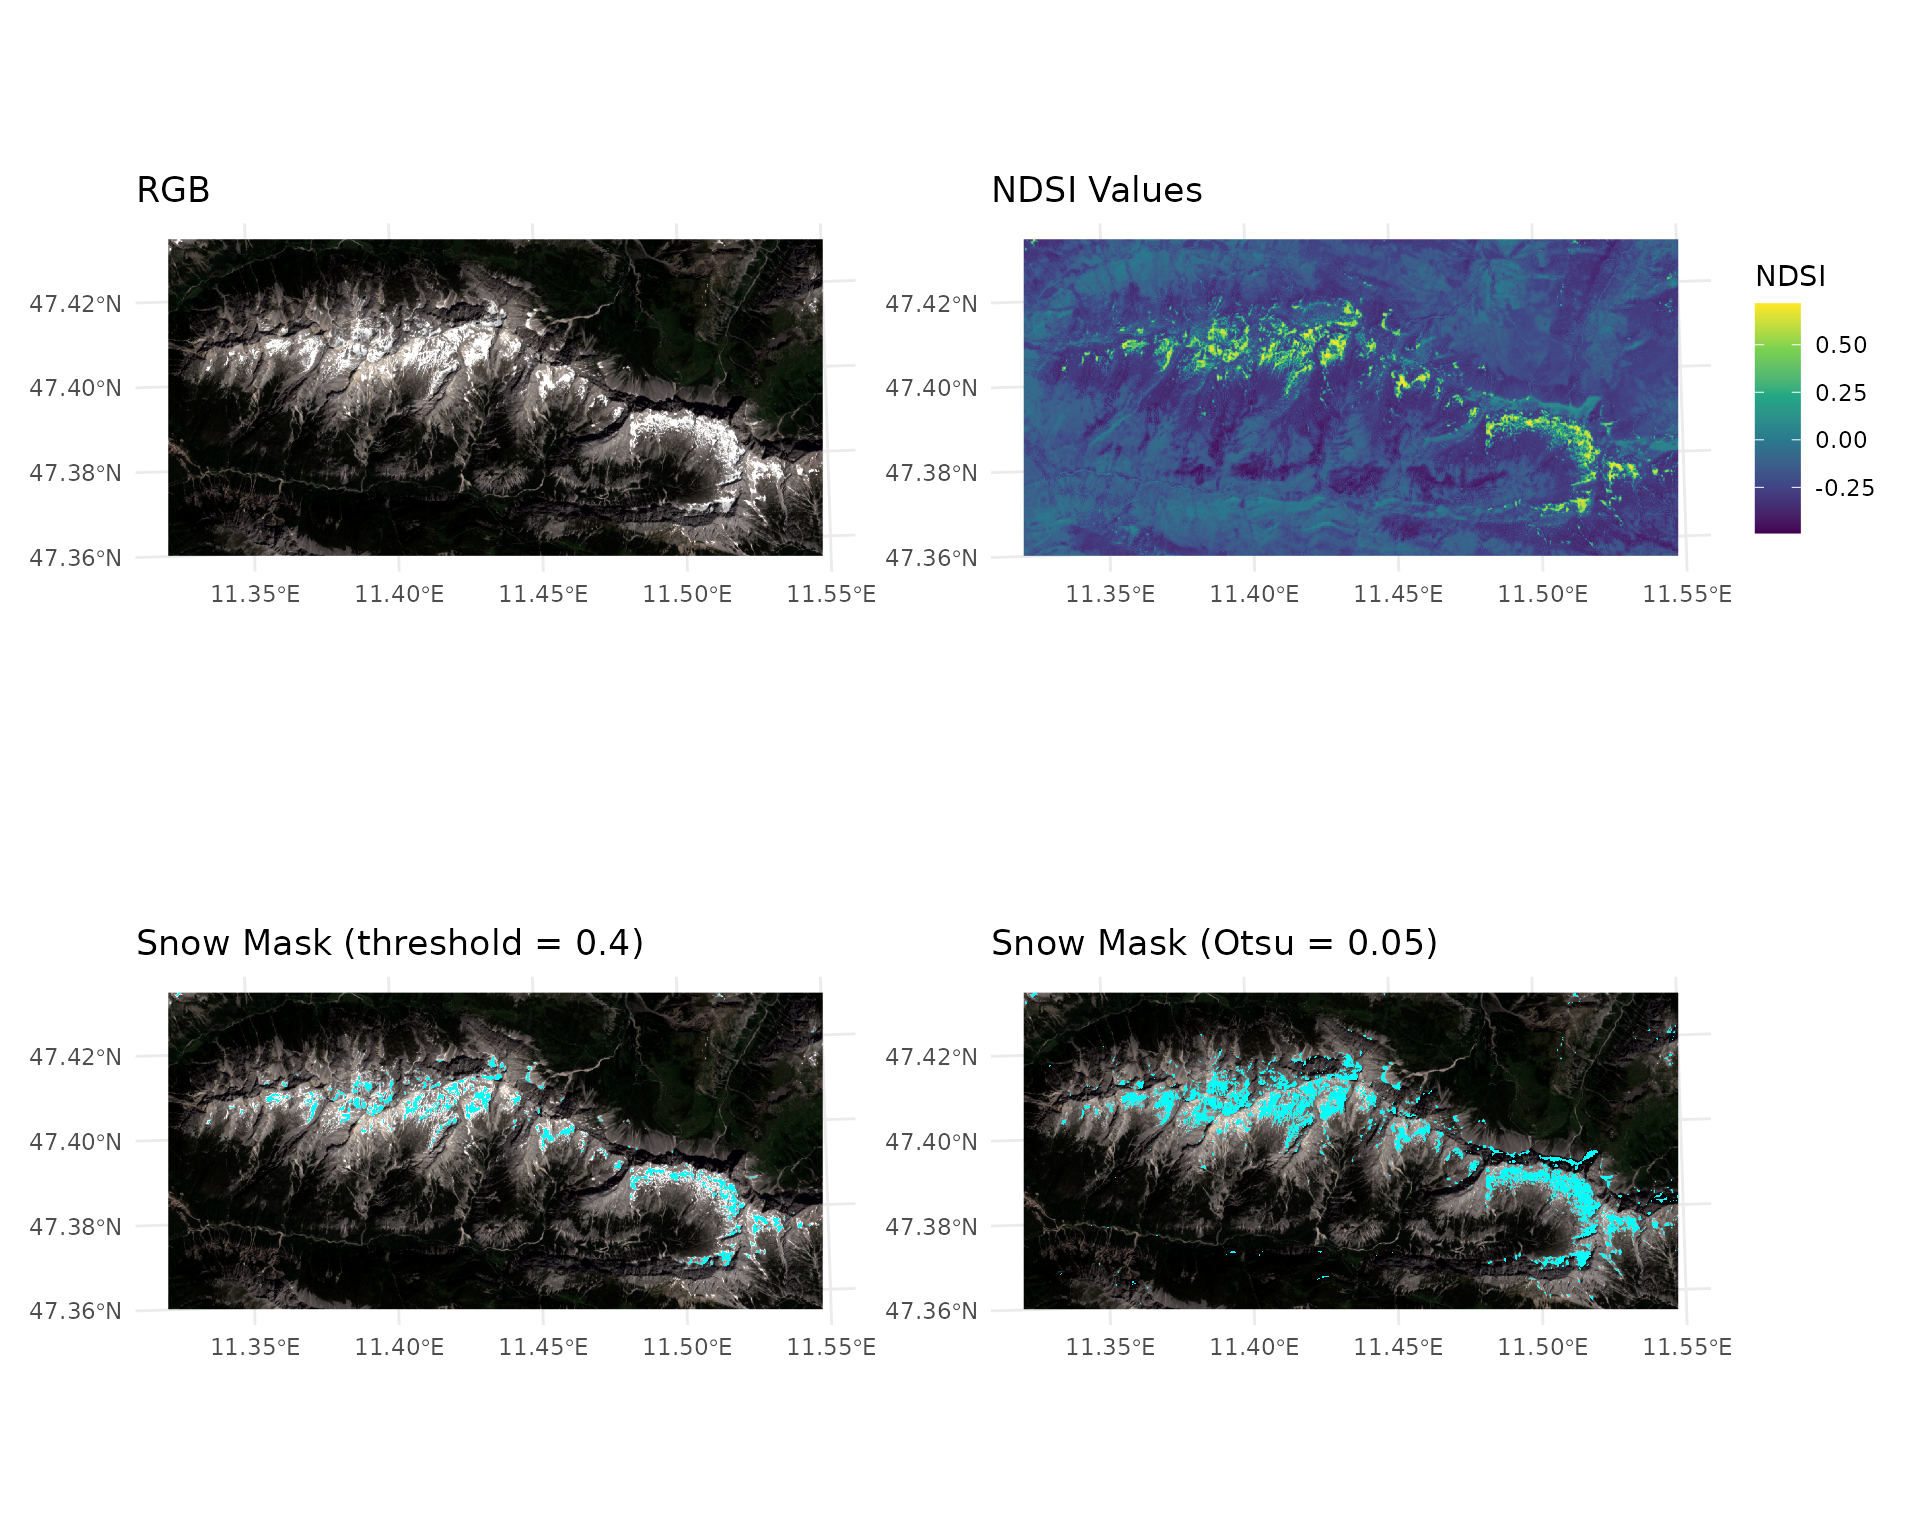
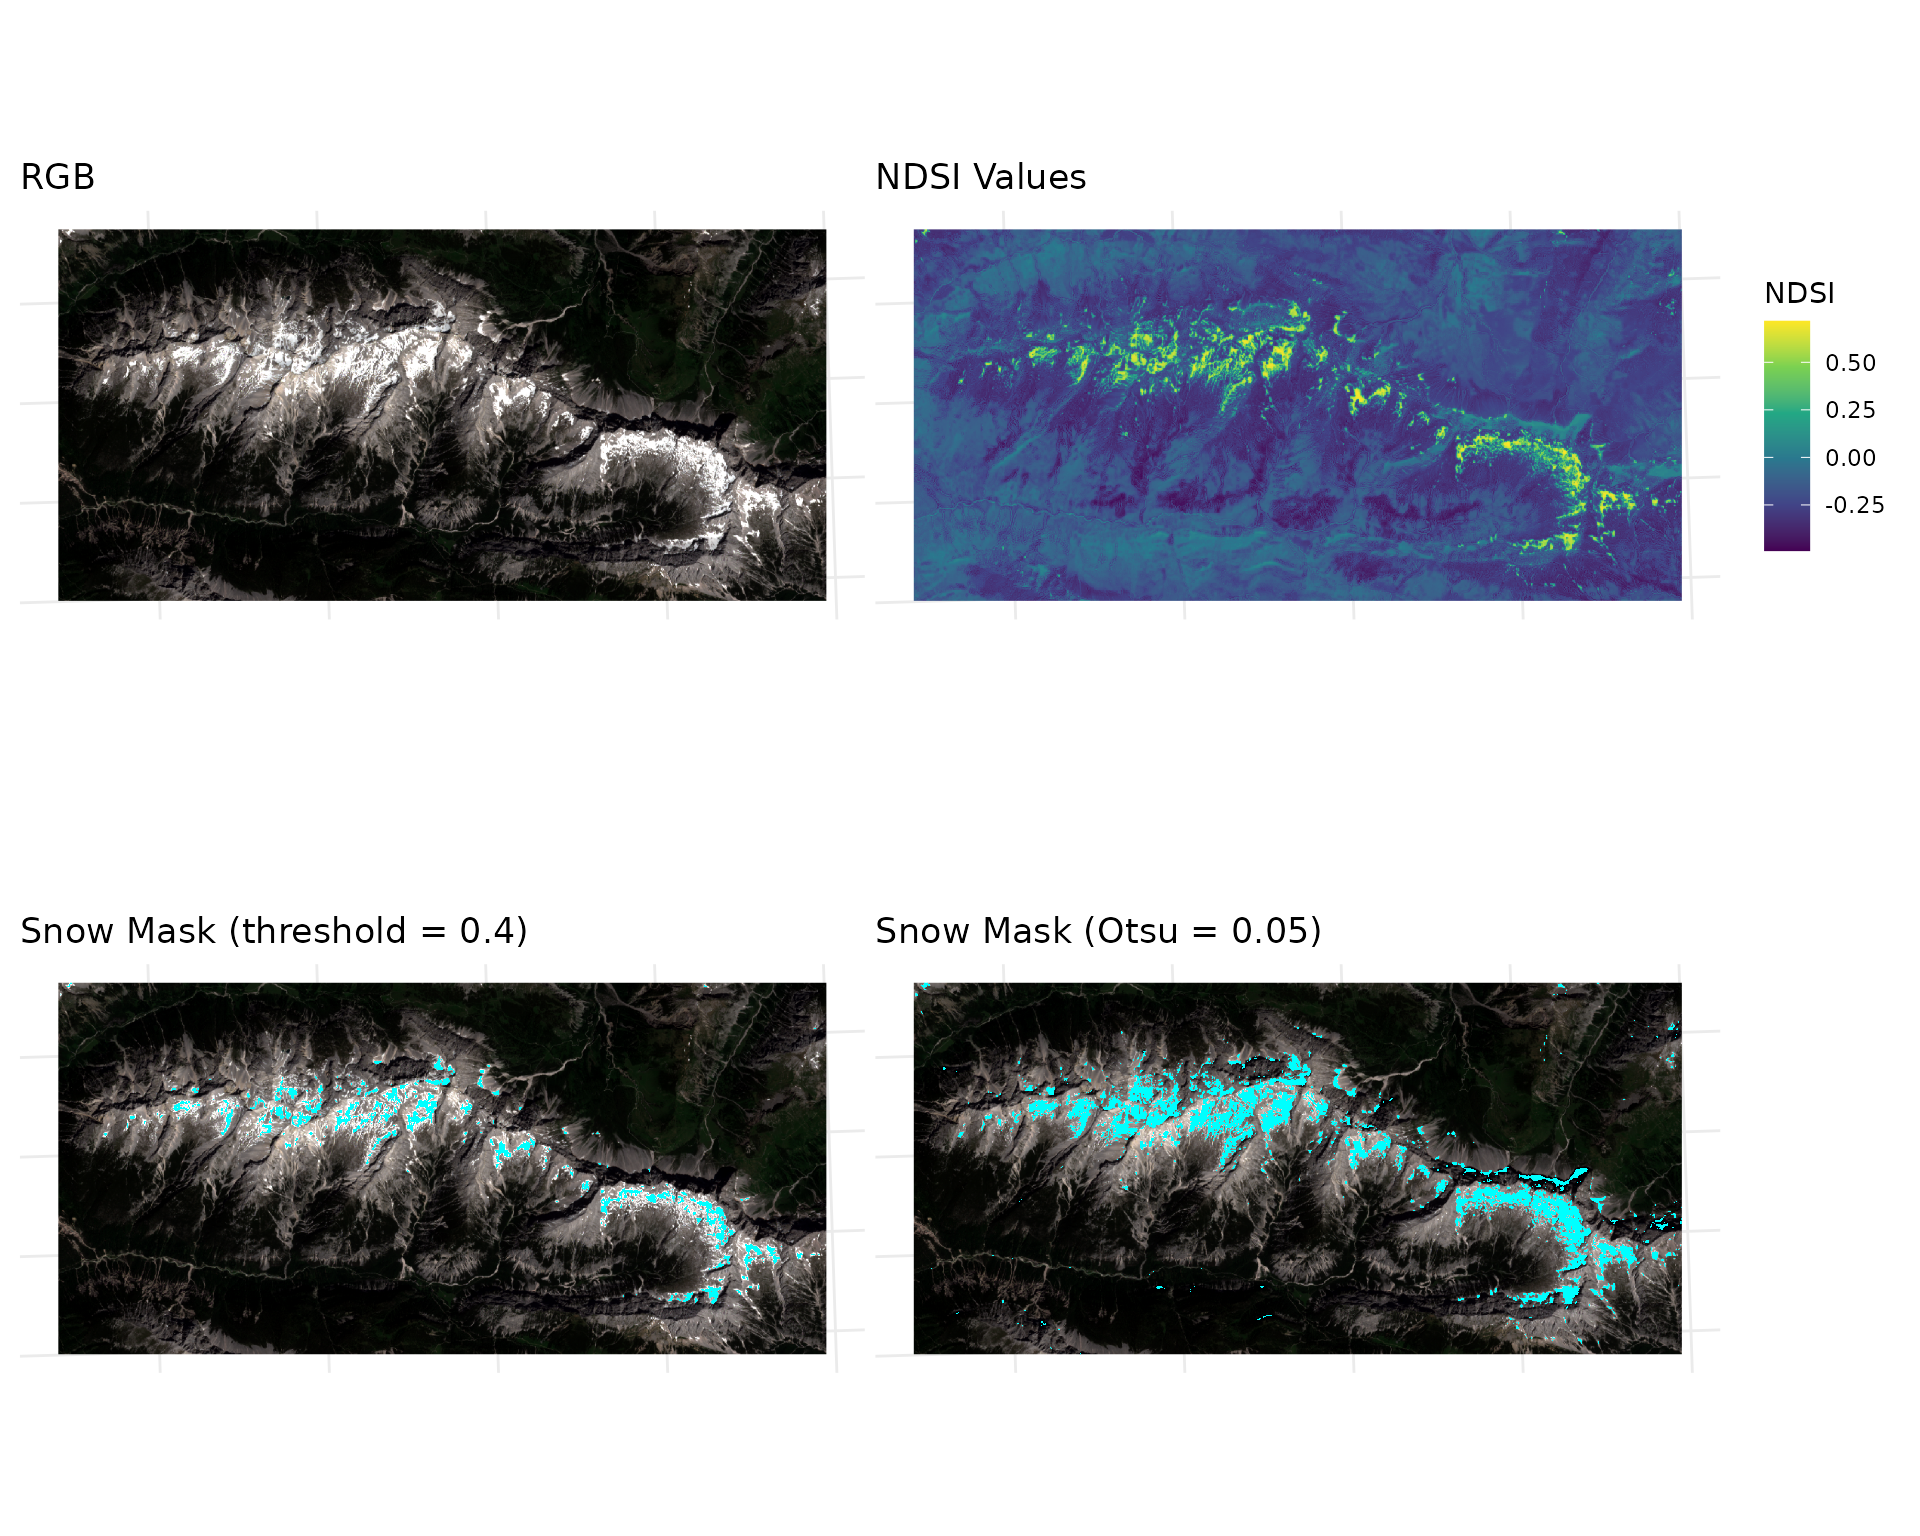
Deploying to gh-pages from @ Lutzkk/snowsense@12c6ae662d26625c9192947d799c682971d39da1 🚀

diff --git a/articles/snowsense-example.html b/articles/snowsense-example.html
@@ -85,20 +85,21 @@
 Sentinel-2 L1C scene (Stacked to a single tif, resampled to 20m) from
 the Austrian Alps (June 2023).<a class="anchor" aria-label="anchor" href="#this-vignette-demonstrates-a-full-snow-analysis-workflow-using-a-sentinel-2-l1c-scene-stacked-to-a-single-tif-resampled-to-20m-from-the-austrian-alps-june-2023-"></a>
 </h2>
-<p>The workflow includes: 1. Data Loading 2. Snow Detection using
-different indices 3. Despeckling 4. Fractional Snow Cover Estimation
-using two different regression approaches</p>
+<p>The workflow includes: 1. Data Loading 2. Snow Detection 3.
+Despeckling 4. Fractional Snow Cover Estimation using two different
+regression approaches</p>
 <div class="sourceCode" id="cb2"><pre class="downlit sourceCode r">
 <code class="sourceCode R"><span><span class="co"># Load Packages </span></span>
 <span><span class="kw"><a href="https://rdrr.io/r/base/library.html" class="external-link">library</a></span><span class="op">(</span><span class="va">snowsense</span><span class="op">)</span></span>
 <span></span>
 <span><span class="va">ds</span> <span class="op">&lt;-</span> <span class="fu"><a href="https://rspatial.github.io/terra/reference/rast.html" class="external-link">rast</a></span><span class="op">(</span><span class="st">"../inst/extdata/example_s2_20m.tif"</span><span class="op">)</span> <span class="co">#load sentinel2 data as SpatRaster with terra</span></span>
+<span><span class="va">ds</span> <span class="op">&lt;-</span> <span class="va">ds</span><span class="op">/</span><span class="fl">10000</span> <span class="co">#scale to reflectance values (0-1)</span></span>
 <span></span>
 <span><span class="fu"><a href="https://rdrr.io/r/base/print.html" class="external-link">print</a></span><span class="op">(</span><span class="fu"><a href="https://rdrr.io/r/base/paste.html" class="external-link">paste</a></span><span class="op">(</span><span class="st">"Bands available:"</span>, <span class="fu"><a href="https://rdrr.io/r/base/paste.html" class="external-link">paste</a></span><span class="op">(</span><span class="fu"><a href="https://rspatial.github.io/terra/reference/names.html" class="external-link">names</a></span><span class="op">(</span><span class="va">ds</span><span class="op">)</span>, collapse <span class="op">=</span> <span class="st">", "</span><span class="op">)</span><span class="op">)</span><span class="op">)</span></span>
 <span><span class="co">#&gt; [1] "Bands available: B01, B02, B03, B04, B05, B06, B07, B08, B8A, B09, B10, B11, B12"</span></span>
 <span></span>
 <span><span class="fu"><a href="https://rspatial.github.io/terra/reference/plotRGB.html" class="external-link">plotRGB</a></span><span class="op">(</span><span class="va">ds</span>, r<span class="op">=</span><span class="st">"B04"</span>, g<span class="op">=</span><span class="st">"B03"</span>, b<span class="op">=</span><span class="st">"B02"</span>, stretch<span class="op">=</span><span class="st">"lin"</span>, main<span class="op">=</span><span class="st">"Sentinel-2 L1C RGB Scene (20m, Stacked)"</span><span class="op">)</span> <span class="co">#lin2</span></span></code></pre></div>
-<p><img src="snowsense-example_files/figure-html/unnamed-chunk-3-1.png" class="r-plt" alt="" width="700">
+<p><img src="snowsense-example_files/figure-html/unnamed-chunk-2-1.png" class="r-plt" alt="" width="700">
 ## Snow Detection <code>snowsense</code> supports three spectral indices
 for snow detection. We apply all three to the same scene for comparison.
 To understand the how the indices work, its best to consult the README
@@ -118,16 +119,60 @@ and the original papers.</p>
 <span><span class="co">#&gt; <span style="color: #0000BB;">&lt;SpatRaster&gt;</span> resampled to <span style="color: #00BB00;">500364</span> cells.</span></span>
 <span><span class="co">#&gt; <span style="color: #0000BB;">&lt;SpatRaster&gt;</span> resampled to <span style="color: #00BB00;">500364</span> cells.</span></span>
 <span><span class="co">#&gt; <span style="color: #0000BB;">&lt;SpatRaster&gt;</span> resampled to <span style="color: #00BB00;">500364</span> cells.</span></span></code></pre>
-<p><img src="snowsense-example_files/figure-html/ndsi_plot-1.png" class="r-plt" alt="" width="960"></p>
-<div class="sourceCode" id="cb5"><pre class="downlit sourceCode r">
-<code class="sourceCode R"><span><span class="kw"><a href="https://rdrr.io/r/base/library.html" class="external-link">library</a></span><span class="op">(</span><span class="va"><a href="https://rspatial.org/" class="external-link">terra</a></span><span class="op">)</span></span>
-<span><span class="va">x</span> <span class="op">&lt;-</span> <span class="fu"><a href="https://rspatial.github.io/terra/reference/rast.html" class="external-link">rast</a></span><span class="op">(</span><span class="st">"../inst/extdata/example_s2_20m.tif"</span><span class="op">)</span></span>
-<span><span class="va">x</span> <span class="op">&lt;-</span> <span class="va">x</span> <span class="op">/</span> <span class="fl">10000</span></span>
-<span><span class="fu"><a href="https://rspatial.github.io/terra/reference/writeRaster.html" class="external-link">writeRaster</a></span><span class="op">(</span><span class="va">x</span>, <span class="st">"../inst/extdata/example_s2_20m.tif"</span>, overwrite <span class="op">=</span> <span class="cn">TRUE</span><span class="op">)</span></span></code></pre></div>
-<p>#Plot The second plot showcases that although Otsus method can work,
-it does not produce as precise results as</p>
+<p><img src="snowsense-example_files/figure-html/ndsi_plot-1.png" class="r-plt" alt="" width="960">
+The bottom right plot depicts the snow mask derived from using Otsu’s
+method for thresholding. The automatically selected lower threshold here
+works better, capturing more snow pixels and reducing false negatives
+from the fixed threshold (from a visual inspection). However, with a
+fixed threshold you have full control and reproducibility across scenes.
+RGB_brightness is especially useful for high resolution drone data,
+where only RGB is available. wsi is based on a paper from Donmez et
+al. (2021) and is especially good at discriminating between water and
+snow.</p>
 </div>
-  </main>
+<div class="section level2">
+<h2 id="despeckling">Despeckling<a class="anchor" aria-label="anchor" href="#despeckling"></a>
+</h2>
+<p>Snow masks often contain speckle noise (isolated snow classified
+pixels that may be noise or small patches that can be caused by
+misclassification). <code><a href="../reference/despeckle_snow.html">despeckle_snow()</a></code> removes these using
+majority filtering and/or a minimum patch size filter.</p>
+<div class="sourceCode" id="cb5"><pre class="downlit sourceCode r">
+<code class="sourceCode R"><span><span class="va">clean</span> <span class="op">&lt;-</span> <span class="fu"><a href="../reference/despeckle_snow.html">despeckle_snow</a></span><span class="op">(</span><span class="va">result_ndsi_otsu</span><span class="op">$</span><span class="va">binary_mask</span>, window<span class="op">=</span><span class="fl">9</span>, min_pixels<span class="op">=</span><span class="fl">5</span><span class="op">)</span></span></code></pre></div>
+<pre><code><span><span class="co">#&gt; <span style="color: #0000BB;">&lt;SpatRaster&gt;</span> resampled to <span style="color: #00BB00;">500364</span> cells.</span></span>
+<span><span class="co">#&gt; <span style="color: #0000BB;">&lt;SpatRaster&gt;</span> resampled to <span style="color: #00BB00;">500364</span> cells.</span></span></code></pre>
+<p><img src="snowsense-example_files/figure-html/despeckle_plot-1.png" class="r-plt" alt="" width="960">
+The despeckling function removes small isolated snow pixels that are
+likely false positives. The parameters <code>window</code> and
+<code>min_pixels</code> control the size of the neighborhood (majority
+based filtering) and the minimum number of connected pixels required to
+retain a snow patch (size based filtering). The plot shows that after
+despeckling a lot of tiny blue dots have been removed indicating it is
+an effective way to clean up the snow mask from tiny small positives.
+However, it also removes some small snow patches that may be real, so
+there is a tradeoff between removing noise and losing small
+features.</p>
+</div>
+<div class="section level2">
+<h2 id="fractional-snow-cover-estimation">Fractional Snow Cover Estimation<a class="anchor" aria-label="anchor" href="#fractional-snow-cover-estimation"></a>
+</h2>
+<p>Rather than a binary snow mask, <code><a href="../reference/snow_cover_fraction.html">snow_cover_fraction()</a></code>
+estimates the fraction of snow cover per pixel directly using NDSI-based
+regression. This is useful when sub-pixel snow cover information is
+needed, for example at coarser resolutions.</p>
+<p>Two regression approaches are currently supported in the package: -
+<strong>Salomonson &amp; Appel (2004)</strong>: FSC = 1.45 * NDSI - 0.45
+- <strong>Gascoin et al. (2020)</strong>: FSC = 0.5 * tanh(2.65 * NDSI -
+1.42) + 0.5</p>
+<div class="sourceCode" id="cb7"><pre class="downlit sourceCode r">
+<code class="sourceCode R"><span><span class="va">fsc_sal</span> <span class="op">&lt;-</span> <span class="fu"><a href="../reference/snow_cover_fraction.html">snow_cover_fraction</a></span><span class="op">(</span><span class="va">ds</span>, bands <span class="op">=</span> <span class="fu"><a href="https://rdrr.io/r/base/list.html" class="external-link">list</a></span><span class="op">(</span>green <span class="op">=</span> <span class="st">"B03"</span>, swir <span class="op">=</span> <span class="st">"B11"</span><span class="op">)</span>, method <span class="op">=</span> <span class="st">"salomonson"</span><span class="op">)</span></span>
+<span><span class="va">fsc_sig</span> <span class="op">&lt;-</span> <span class="fu"><a href="../reference/snow_cover_fraction.html">snow_cover_fraction</a></span><span class="op">(</span><span class="va">ds</span>, bands <span class="op">=</span> <span class="fu"><a href="https://rdrr.io/r/base/list.html" class="external-link">list</a></span><span class="op">(</span>green <span class="op">=</span> <span class="st">"B03"</span>, swir <span class="op">=</span> <span class="st">"B11"</span><span class="op">)</span>, method <span class="op">=</span> <span class="st">"sigmoid"</span><span class="op">)</span></span></code></pre></div>
+<pre><code><span><span class="co">#&gt; <span style="color: #0000BB;">&lt;SpatRaster&gt;</span> resampled to <span style="color: #00BB00;">500364</span> cells.</span></span>
+<span><span class="co">#&gt; <span style="color: #0000BB;">&lt;SpatRaster&gt;</span> resampled to <span style="color: #00BB00;">500364</span> cells.</span></span></code></pre>
+<p><img src="snowsense-example_files/figure-html/fsc_plot-1.png" class="r-plt" alt="" width="960"></p>
+</div>
+  </main><aside class="col-md-3"><nav id="toc" aria-label="Table of contents"><h2>On this page</h2>
+    </nav></aside>
 </div>
 
 

diff --git a/articles/snowsense-example.md b/articles/snowsense-example.md
@@ -21,15 +21,16 @@ library(patchwork)
 
 ## This vignette demonstrates a full snow analysis workflow using a Sentinel-2 L1C scene (Stacked to a single tif, resampled to 20m) from the Austrian Alps (June 2023).
 
-The workflow includes: 1. Data Loading 2. Snow Detection using different
-indices 3. Despeckling 4. Fractional Snow Cover Estimation using two
-different regression approaches
+The workflow includes: 1. Data Loading 2. Snow Detection 3. Despeckling
+4. Fractional Snow Cover Estimation using two different regression
+approaches
 
 ``` r
 # Load Packages 
 library(snowsense)
 
 ds <- rast("../inst/extdata/example_s2_20m.tif") #load sentinel2 data as SpatRaster with terra
+ds <- ds/10000 #scale to reflectance values (0-1)
 
 print(paste("Bands available:", paste(names(ds), collapse = ", ")))
 #> [1] "Bands available: B01, B02, B03, B04, B05, B06, B07, B08, B8A, B09, B10, B11, B12"
@@ -37,7 +38,7 @@ print(paste("Bands available:", paste(names(ds), collapse = ", ")))
 plotRGB(ds, r="B04", g="B03", b="B02", stretch="lin", main="Sentinel-2 L1C RGB Scene (20m, Stacked)") #lin2
 ```
 
-![](snowsense-example_files/figure-html/unnamed-chunk-3-1.png) \## Snow
+![](snowsense-example_files/figure-html/unnamed-chunk-2-1.png) \## Snow
 Detection `snowsense` supports three spectral indices for snow
 detection. We apply all three to the same scene for comparison. To
 understand the how the indices work, its best to consult the README and
@@ -61,14 +62,61 @@ result_ndsi_otsu <- detect_snow(ds, index = "ndsi",
     #> <SpatRaster> resampled to 500364 cells.
     #> <SpatRaster> resampled to 500364 cells.
 
-![](snowsense-example_files/figure-html/ndsi_plot-1.png)
+![](snowsense-example_files/figure-html/ndsi_plot-1.png) The bottom
+right plot depicts the snow mask derived from using Otsu’s method for
+thresholding. The automatically selected lower threshold here works
+better, capturing more snow pixels and reducing false negatives from the
+fixed threshold (from a visual inspection). However, with a fixed
+threshold you have full control and reproducibility across scenes.
+RGB_brightness is especially useful for high resolution drone data,
+where only RGB is available. wsi is based on a paper from Donmez et
+al. (2021) and is especially good at discriminating between water and
+snow.
+
+## Despeckling
+
+Snow masks often contain speckle noise (isolated snow classified pixels
+that may be noise or small patches that can be caused by
+misclassification). [`despeckle_snow()`](../reference/despeckle_snow.md)
+removes these using majority filtering and/or a minimum patch size
+filter.
 
 ``` r
-library(terra)
-x <- rast("../inst/extdata/example_s2_20m.tif")
-x <- x / 10000
-writeRaster(x, "../inst/extdata/example_s2_20m.tif", overwrite = TRUE)
+clean <- despeckle_snow(result_ndsi_otsu$binary_mask, window=9, min_pixels=5)
 ```
 
-\#Plot The second plot showcases that although Otsus method can work, it
-does not produce as precise results as
+    #> <SpatRaster> resampled to 500364 cells.
+    #> <SpatRaster> resampled to 500364 cells.
+
+![](snowsense-example_files/figure-html/despeckle_plot-1.png) The
+despeckling function removes small isolated snow pixels that are likely
+false positives. The parameters `window` and `min_pixels` control the
+size of the neighborhood (majority based filtering) and the minimum
+number of connected pixels required to retain a snow patch (size based
+filtering). The plot shows that after despeckling a lot of tiny blue
+dots have been removed indicating it is an effective way to clean up the
+snow mask from tiny small positives. However, it also removes some small
+snow patches that may be real, so there is a tradeoff between removing
+noise and losing small features.
+
+## Fractional Snow Cover Estimation
+
+Rather than a binary snow mask,
+[`snow_cover_fraction()`](../reference/snow_cover_fraction.md) estimates
+the fraction of snow cover per pixel directly using NDSI-based
+regression. This is useful when sub-pixel snow cover information is
+needed, for example at coarser resolutions.
+
+Two regression approaches are currently supported in the package: -
+**Salomonson & Appel (2004)**: FSC = 1.45 \* NDSI - 0.45 - **Gascoin et
+al. (2020)**: FSC = 0.5 \* tanh(2.65 \* NDSI - 1.42) + 0.5
+
+``` r
+fsc_sal <- snow_cover_fraction(ds, bands = list(green = "B03", swir = "B11"), method = "salomonson")
+fsc_sig <- snow_cover_fraction(ds, bands = list(green = "B03", swir = "B11"), method = "sigmoid")
+```
+
+    #> <SpatRaster> resampled to 500364 cells.
+    #> <SpatRaster> resampled to 500364 cells.
+
+![](snowsense-example_files/figure-html/fsc_plot-1.png)
